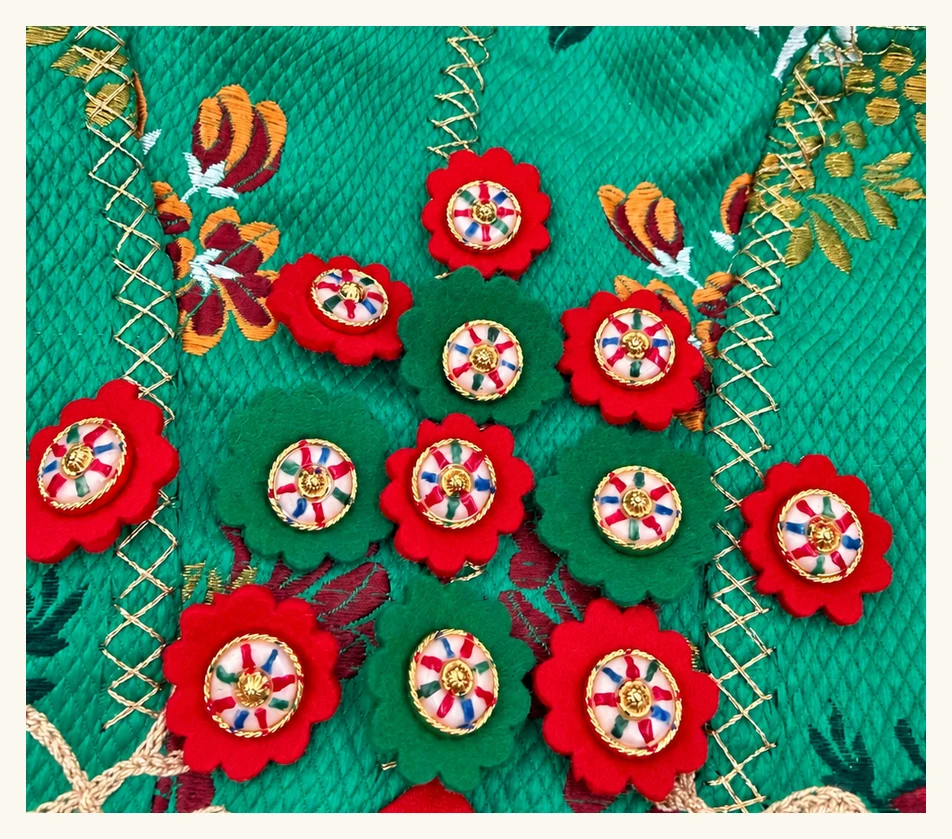
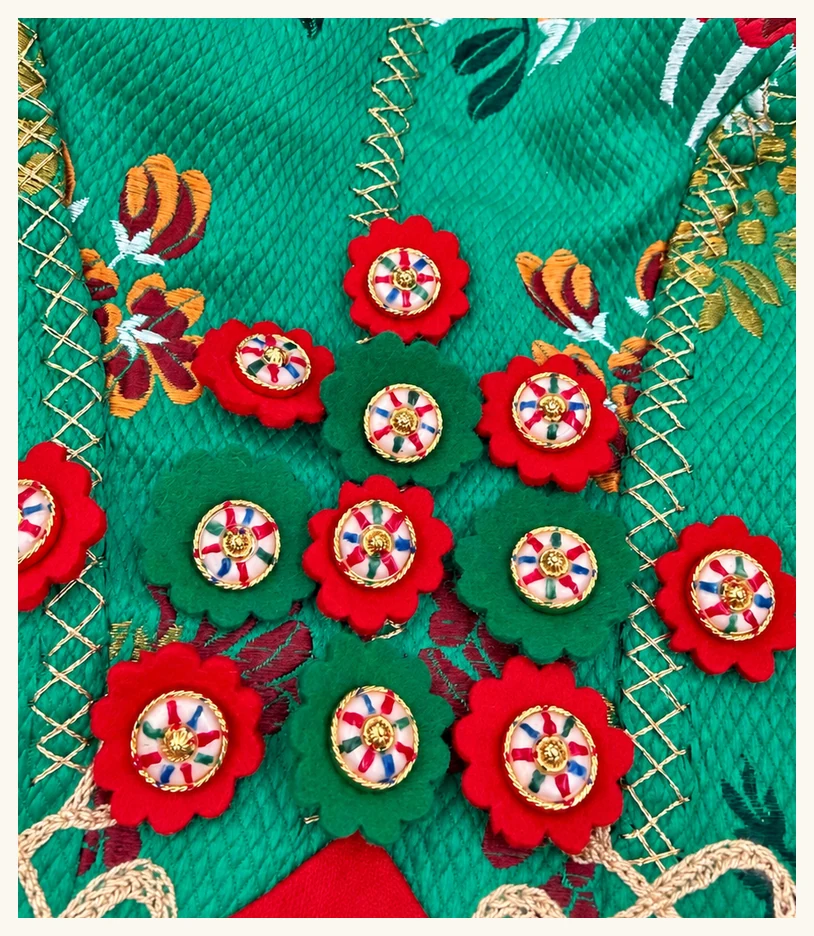
Prucel 1:1 podľa mockupu: zhluk piatich rozét, samotné gombíky, fotka brokátu na výšku, väčšie kruhové detaily, nadpis kapitoly bez kartičky, bez nite

diff --git a/main.js b/main.js
@@ -203,17 +203,17 @@
            r = náklon, z = hĺbka (0 vpredu, 1 vzadu: menší, rozmazanejší, pomalší) */
         fly: [
           { src: 'img/prucel/prucel-cely.webp', label: 'Mužský prucel z Bučian', fx: 0, fy: 40, out: null,
-            k: [{ at: 2, x: 0, y: 2, w: 60, r: 0, z: 0 }] },
-          { src: 'img/prucel/brokat-foto.webp', label: 'Rozety prišité na brokát', fx: 70, fy: 60, out: null,
-            k: [{ at: 18, x: 30, y: 8, w: 38, r: -2, z: 0 }] },
-          { src: 'img/prucel/rozety-zhluk.webp', label: 'Plstené rozety', fx: -70, fy: 50, out: null,
-            k: [{ at: 34, x: -52, y: 26, w: 28, r: -8, z: 0 }] },
+            k: [{ at: 2, x: -3, y: 0, w: 60, r: 0, z: 0 }] },
+          { src: 'img/prucel/brokat-foto.webp?v=2', label: 'Rozety prišité na brokát', fx: 70, fy: 60, out: null,
+            k: [{ at: 18, x: 36, y: 4, w: 34, r: 1, z: 0 }] },
+          { src: 'img/prucel/rozety-zhluk.webp?v=2', label: 'Plstené rozety', fx: -70, fy: 50, out: null,
+            k: [{ at: 34, x: -50, y: 20, w: 32, r: -6, z: 0 }] },
           { src: 'img/prucel/lem.webp', label: 'Vykrajovaný lem', fx: 80, fy: -60, out: null,
-            k: [{ at: 50, x: 56, y: -27, w: 30, r: 0, z: 0 }] },
+            k: [{ at: 50, x: 60, y: -23, w: 34, r: 0, z: 0 }] },
           { src: 'img/prucel/stred.webp', label: 'Krížiky a slučky', fx: 85, fy: 30, out: null,
-            k: [{ at: 64, x: 62, y: 6, w: 21, r: 0, z: 0 }] },
-          { src: 'img/prucel/rozety-gombiky.webp', label: 'Rozety s maľovanými gombíkmi', fx: -60, fy: -70, out: null,
-            k: [{ at: 78, x: -44, y: -28, w: 20, r: 14, z: 0 }] },
+            k: [{ at: 64, x: 67, y: 8, w: 26, r: 0, z: 0 }] },
+          { src: 'img/prucel/gombiky.webp', label: 'Maľované gombíky', fx: -60, fy: -70, out: null,
+            k: [{ at: 78, x: -46, y: -30, w: 28, r: 0, z: 0 }] },
         ] },
     },
     {

diff --git a/styles.css b/styles.css
@@ -883,3 +883,13 @@ body.is-tune .macro-cap, body.is-tune .macro-thread { display: none; }
 .macro-orn { position: absolute; width: min(22vw, 320px); opacity: 0; pointer-events: none; z-index: 0; transition: opacity 1.2s var(--ease); }
 .macro-orn.l { left: -2%; bottom: -4%; } .macro-orn.r { right: -1%; top: 6%; width: min(18vw, 260px); }
 .macro.is-fly .macro-orn { opacity: calc(.55 * var(--orn, 0)); }
+
+/* prilietanie: text kapitoly ako veľký nadpis bez kartičky (ako v mockupe) */
+@media (min-width: 961px) {
+  .macro.is-fly .macro-facts.is-story { left: var(--pad); width: min(26vw, 360px); top: 40%; }
+  .macro.is-fly .macro-thread { display: none; }
+  .macro.is-fly .macro-facts.is-story li { padding: 0; background: none; box-shadow: none; }
+  .macro.is-fly .macro-facts b { font-size: clamp(40px, 4.4vw, 68px); line-height: .98; }
+  .macro.is-fly .macro-facts .mf-d { font-size: 17px; margin-top: 18px; max-width: 30ch; }
+  .macro.is-fly .macro-facts .mf-img { display: none; }
+}

diff --git a/index.html b/index.html
@@ -11,7 +11,7 @@
 <link rel="preconnect" href="https://fonts.gstatic.com" crossorigin>
 <link href="https://fonts.googleapis.com/css2?family=Instrument+Serif:ital@0;1&family=Newsreader:ital,opsz,wght@0,6..72,300..500;1,6..72,300..400&family=Geist:wght@400;500&display=swap" rel="stylesheet">
 <link rel="preload" as="image" href="img/kroj-trukovanie.webp">
-<link rel="stylesheet" href="styles.css?v=52">
+<link rel="stylesheet" href="styles.css?v=54">
 <link rel="stylesheet" href="motion.css?v=2">
 <link rel="stylesheet" href="podstranky.css?v=2">
 </head>
@@ -402,6 +402,6 @@
 
 <div class="progress-thread" aria-hidden="true"><i id="pt-fill"></i></div>
 
-<script src="main.js?v=53"></script>
+<script src="main.js?v=55"></script>
 </body>
 </html>
